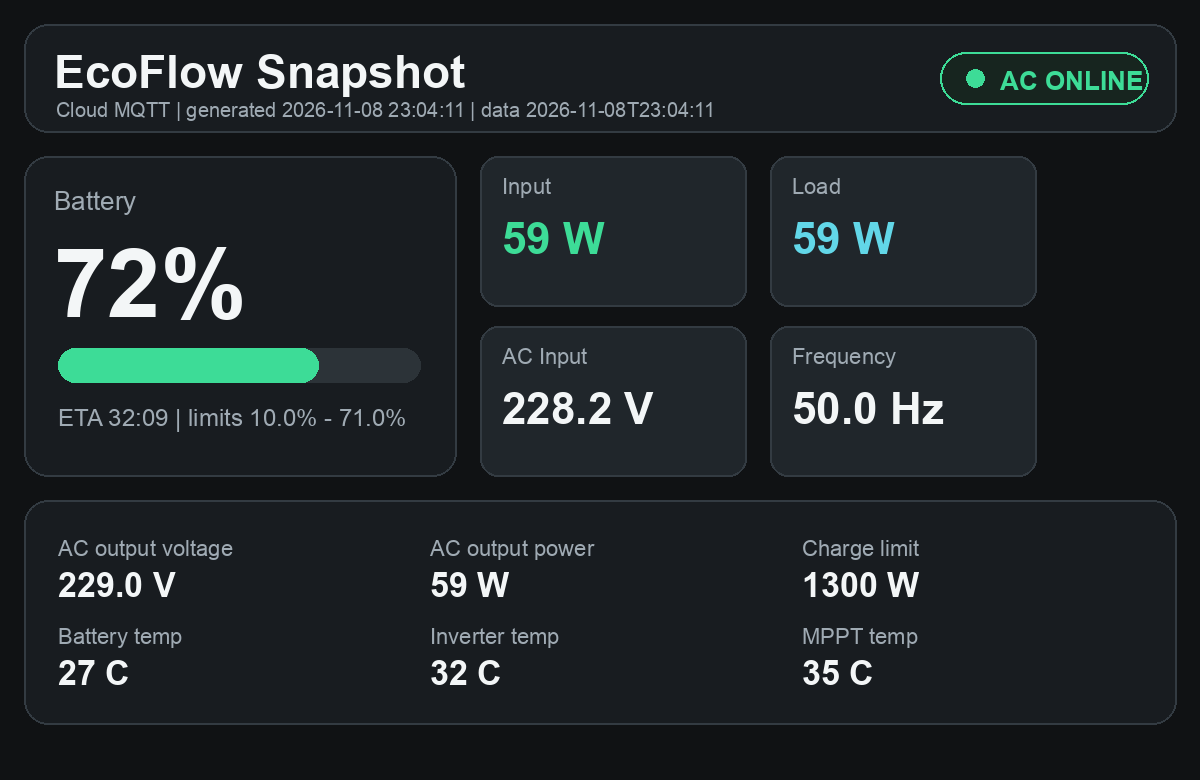
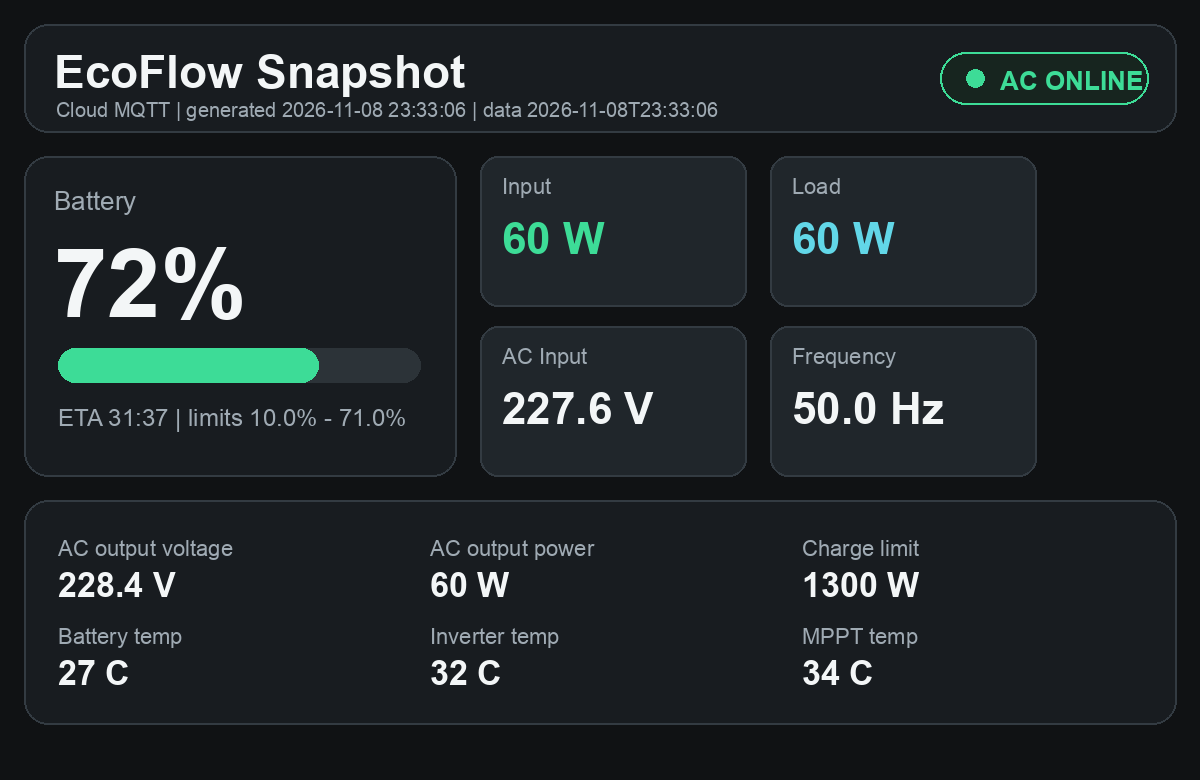
Update EcoFlow dashboard 2026-11-08 23:33:06

diff --git a/index.html b/index.html
@@ -177,7 +177,7 @@
   <header>
     <div>
       <h1>EcoFlow Snapshot</h1>
-      <div class="sub">Cloud MQTT · generated 2026-11-08T23:04:11 · data 2026-11-08T23:04:11</div>
+      <div class="sub">Cloud MQTT · generated 2026-11-08T23:33:06 · data 2026-11-08T23:33:06</div>
     </div>
     <div class="status online"><span class="dot"></span><span>AC online</span></div>
   </header>
@@ -189,20 +189,20 @@
       <h2>Battery</h2>
       <div class="value">72%</div>
       <div class="battery"><div class="fill"></div></div>
-      <div class="row"><span>ETA</span><span>32:09</span></div>
+      <div class="row"><span>ETA</span><span>31:37</span></div>
       <div class="row"><span>SOC limits</span><span>10.0% - 71.0%</span></div>
     </section>
     <section>
       <h2>AC</h2>
-      <div class="row"><span>Input voltage</span><span>228.2 V</span></div>
+      <div class="row"><span>Input voltage</span><span>227.6 V</span></div>
       <div class="row"><span>Input frequency</span><span>50.0 Hz</span></div>
-      <div class="row"><span>Output voltage</span><span>229.0 V</span></div>
+      <div class="row"><span>Output voltage</span><span>228.4 V</span></div>
     </section>
   </div>
 
   <div class="cards">
-    <div class="card"><span class="label">Input</span><span class="value">59 W</span></div>
-    <div class="card"><span class="label">Load</span><span class="value">59 W</span></div>
+    <div class="card"><span class="label">Input</span><span class="value">60 W</span></div>
+    <div class="card"><span class="label">Load</span><span class="value">60 W</span></div>
     <div class="card"><span class="label">Battery temp</span><span class="value">27°C</span></div>
     <div class="card"><span class="label">Inverter temp</span><span class="value">32°C</span></div>
   </div>
@@ -212,13 +212,13 @@
       <h2>Останні 24 години</h2>
       <div class="daily-grid">
         <div class="daily-item"><span class="label">Напруга min / max</span><strong>215 V / 234 V</strong><small>08.11 10:35 / 08.11 21:01</small></div>
-        <div class="daily-item"><span class="label">SOC min / max</span><strong>72% / 79%</strong><small>08.11 21:01 / 07.11 23:30</small></div>
+        <div class="daily-item"><span class="label">SOC min / max</span><strong>72% / 79%</strong><small>08.11 21:01 / 08.11 00:01</small></div>
         <div class="daily-item"><span class="label">Пік навантаження</span><strong>567 W</strong><small>08.11 17:42</small></div>
         <div class="daily-item"><span class="label">Зарядний ліміт</span><strong>1300 W</strong><small>пік входу 567 W · 44% ліміту</small></div>
         <div class="daily-item"><span class="label">Заряджання</span><strong>0 сек</strong><small>--</small></div>
         <div class="daily-item"><span class="label">Розряджання</span><strong>0 сек</strong><small>--</small></div>
-        <div class="daily-item"><span class="label">Енергія вхід / вихід</span><strong>438 Wh / 438 Wh</strong><small>оцінка за sample-ами</small></div>
-        <div class="daily-item"><span class="label">Частота min / max</span><strong>50.0 Hz / 50.0 Hz</strong><small>07.11 23:30 / 07.11 23:30</small></div>
+        <div class="daily-item"><span class="label">Енергія вхід / вихід</span><strong>440 Wh / 440 Wh</strong><small>оцінка за sample-ами</small></div>
+        <div class="daily-item"><span class="label">Частота min / max</span><strong>50.0 Hz / 50.0 Hz</strong><small>08.11 00:01 / 08.11 00:01</small></div>
       </div>
     </section>
     
@@ -249,29 +249,29 @@
   &quot;ok&quot;: true,
   &quot;source&quot;: &quot;Cloud MQTT&quot;,
   &quot;device&quot;: &quot;DELTA Pro&quot;,
-  &quot;timestamp&quot;: &quot;2026-11-08T23:04:11&quot;,
+  &quot;timestamp&quot;: &quot;2026-11-08T23:33:06&quot;,
   &quot;grid&quot;: true,
   &quot;battery&quot;: {
     &quot;soc&quot;: 72,
     &quot;min&quot;: 10.0,
     &quot;max&quot;: 71.0,
-    &quot;eta&quot;: &quot;32:09&quot;
+    &quot;eta&quot;: &quot;31:37&quot;
   },
   &quot;power&quot;: {
-    &quot;in&quot;: 59,
-    &quot;out&quot;: 59,
-    &quot;acOut&quot;: 59,
+    &quot;in&quot;: 60,
+    &quot;out&quot;: 60,
+    &quot;acOut&quot;: 60,
     &quot;chargeLimit&quot;: 1300
   },
   &quot;ac&quot;: {
-    &quot;inputVoltage&quot;: 228.183,
+    &quot;inputVoltage&quot;: 227.604,
     &quot;inputFreq&quot;: 50.0,
-    &quot;outputVoltage&quot;: 228.991
+    &quot;outputVoltage&quot;: 228.415
   },
   &quot;temps&quot;: {
     &quot;battery&quot;: 27,
     &quot;inverter&quot;: 32,
-    &quot;mppt&quot;: 35
+    &quot;mppt&quot;: 34
   },
   &quot;history&quot;: [
     {
@@ -392,15 +392,15 @@
   &quot;telemetry&quot;: {
     &quot;window&quot;: &quot;24h&quot;,
     &quot;sample_count&quot;: 62,
-    &quot;from&quot;: &quot;2026-11-07T23:30:55&quot;,
-    &quot;to&quot;: &quot;2026-11-08T23:04:11&quot;,
+    &quot;from&quot;: &quot;2026-11-08T00:01:59&quot;,
+    &quot;to&quot;: &quot;2026-11-08T23:33:06&quot;,
     &quot;latest&quot;: {
       &quot;mode&quot;: &quot;idle&quot;,
       &quot;grid&quot;: true,
       &quot;soc&quot;: 72.0,
-      &quot;ac_v&quot;: 228.183,
-      &quot;in_w&quot;: 59.0,
-      &quot;out_w&quot;: 59.0,
+      &quot;ac_v&quot;: 227.604,
+      &quot;in_w&quot;: 60.0,
+      &quot;out_w&quot;: 60.0,
       &quot;charge_limit_w&quot;: 1300.0
     },
     &quot;voltage&quot;: {
@@ -414,11 +414,11 @@
       },
       &quot;frequency_min&quot;: {
         &quot;value&quot;: 50.0,
-        &quot;ts&quot;: &quot;2026-11-07T23:30:55&quot;
+        &quot;ts&quot;: &quot;2026-11-08T00:01:59&quot;
       },
       &quot;frequency_max&quot;: {
         &quot;value&quot;: 50.0,
-        &quot;ts&quot;: &quot;2026-11-07T23:30:55&quot;
+        &quot;ts&quot;: &quot;2026-11-08T00:01:59&quot;
       }
     },
     &quot;soc&quot;: {
@@ -428,7 +428,7 @@
       },
       &quot;max&quot;: {
         &quot;value&quot;: 79.0,
-        &quot;ts&quot;: &quot;2026-11-07T23:30:55&quot;
+        &quot;ts&quot;: &quot;2026-11-08T00:01:59&quot;
       }
     },
     &quot;power&quot;: {
@@ -446,8 +446,8 @@
       },
       &quot;charge_limit_w&quot;: 1300.0,
       &quot;max_input_pct_of_current_limit&quot;: 44,
-      &quot;input_wh_est&quot;: 437.8,
-      &quot;load_wh_est&quot;: 437.8
+      &quot;input_wh_est&quot;: 439.6,
+      &quot;load_wh_est&quot;: 439.6
     },
     &quot;modes&quot;: {
       &quot;charging_sec&quot;: 0,
